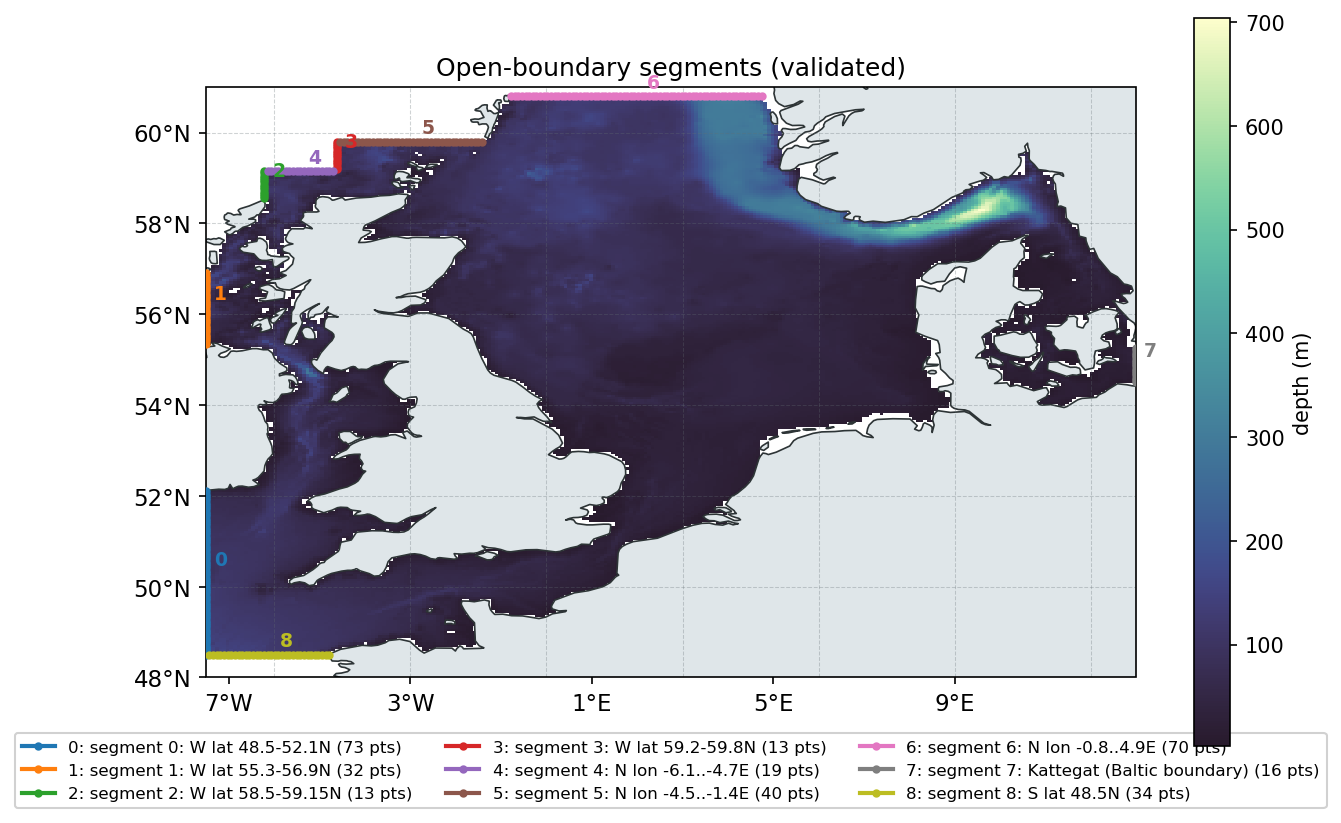
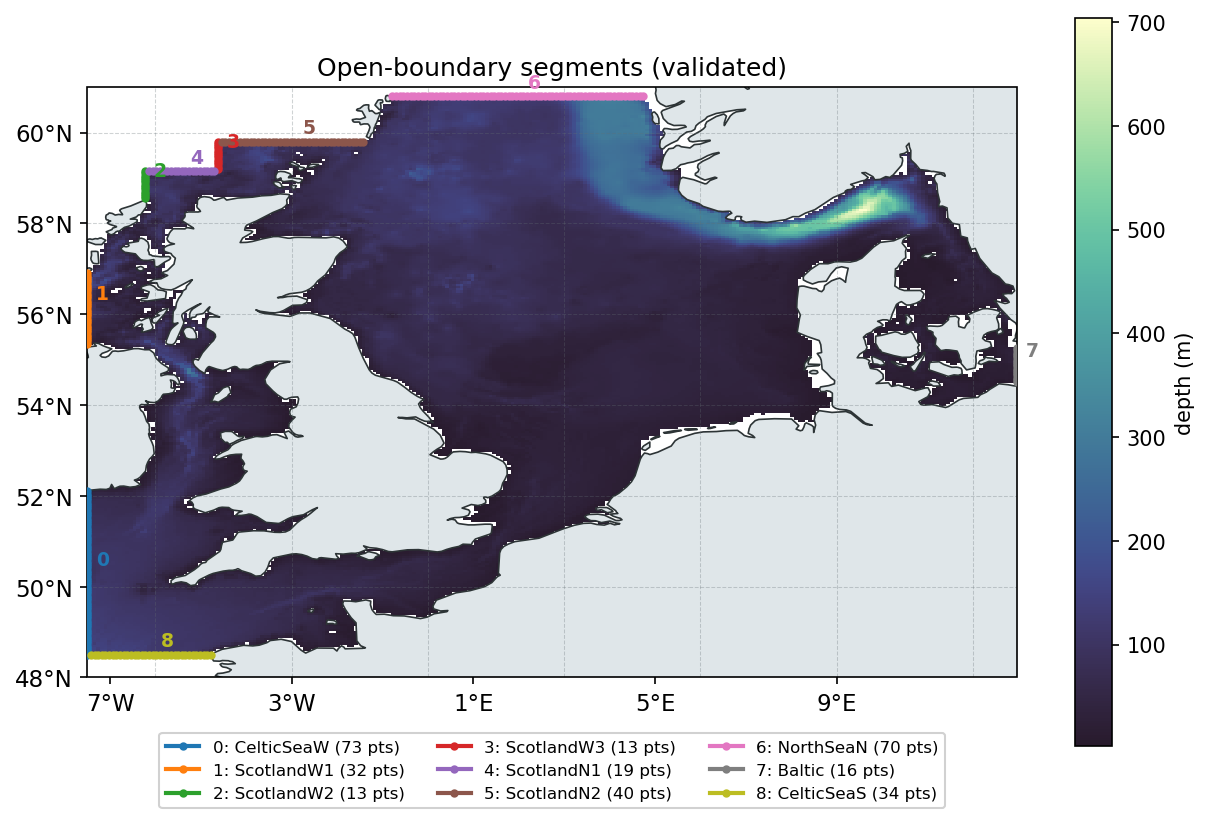
NSe: transfer scylla's hand-edited generated_nse_cmems.py into the configs
From scylla's generated_nse_cmems_final.py (2026-11-05):
- open-boundary segment names CelticSeaW, ScotlandW1-3, ScotlandN1-2,
  NorthSeaN, Baltic, CelticSeaS -- changed in nse_bdy_segments.yaml and
  applied to every tracked NSe run config with `pygetm-config
  boundaries-generate --apply-to` (indices unchanged; nse_bdy_lonlat.txt
  byte-identical; untracked local nse_cmems_tides/nse_cmip6_tides.yaml not
  touched).
- nse_cmems.yaml: vertical_coordinates GVC -> Adaptive (nse_cmip6.yaml
  already was; same Adaptive parameters).
- nse_cmems.yaml/nse_cmip6.yaml: open_boundary_sponge {tmrlx: true} --
  flow-dependent sponge for every SPONGE boundary (temp/salt and FABM).
- 36 FABM tracers (P1-4 Chl/c/n/p, P1_s, Z4-6, R4/6/8 c/n/p, R6_s, R8_s,
  L2_c) get constant background boundary values, the phyto-/zooplankton
  ones ZERO_GRADIENT at the Baltic boundary -- in the active FABM boundary
  source block (CMEMS resp. CMIP6).
- oceanicu_providers: FABM boundary tracers accept `constant:` (fixed
  value instead of file/variable) and `boundaries: {<name>: <type>}`
  (per-boundary type overrides, needs pygetm-config b05acab).

Kept from the configs, not from scylla's older base: zos_datum_corrected
boundary SSH, the current output lists incl. fish summaries (guarded by
FABM's own fish state variables / fishing_pressure dependency) and
ices_daily.nc.

Checked with a recording-stub run of create_domain/create_simulation/
[…]

diff --git a/driver/oceanicu_providers.py b/driver/oceanicu_providers.py
@@ -576,10 +576,25 @@ def register_oceanicu_providers() -> dict[str, ChoiceSpec]:
         type=TypeRef(
             kind="mapping",
             nullable=True,
-            inner=TypeRef(kind="mapping", inner=TypeRef(kind="scalar", scalar_type="str")),
+            # per-tracer keys: file/variable/boundary_condition_type (str),
+            # constant (number), boundaries (mapping boundary name -> type).
+            # Union order matters: number, then mapping, then str -- str
+            # validation would otherwise swallow the other two.
+            inner=TypeRef(
+                kind="mapping",
+                inner=TypeRef(
+                    kind="union",
+                    union_options=(
+                        TypeRef(kind="scalar", scalar_type="float"),
+                        TypeRef(kind="mapping", inner=TypeRef(kind="scalar", scalar_type="str")),
+                        TypeRef(kind="scalar", scalar_type="str"),
+                    ),
+                ),
+            ),
         ),
         default=None,
-        help="FABM state variable name -> {file, variable, boundary_condition_type} "
+        help="FABM state variable name -> {file, variable, boundary_condition_type, "
+        "constant, boundaries} "
         "for tracers that get a boundary + real values from this source. "
         "boundary_condition_type is optional, defaults to SPONGE (cfg_fabm.py's own "
         "real, only-ever-used value) -- other valid values are the same "
@@ -597,7 +612,12 @@ def register_oceanicu_providers() -> dict[str, ChoiceSpec]:
         "pygetm/tracer.py's own Tracer.__init__) and their fabm.yaml-declared "
         "initial_value for the interior IC -- not every FABM state variable needs "
         "an explicit boundary/IC override. `file` is resolved relative to this "
-        "choice's own `folder`.\n\n"
+        "choice's own `folder`. `constant: <value>` instead of file/variable "
+        "prescribes a fixed boundary value (e.g. a low background value for "
+        "plankton/detritus pools that have no boundary product). `boundaries: "
+        "{<open boundary name>: <type>}` overrides the type on individual named "
+        "open boundaries after the all-boundary type, e.g. {Baltic: "
+        "ZERO_GRADIENT}.\n\n"
         "ic_file/ic_variable (2026-10-01): OPTIONAL, CMEMS-only, free keys in "
         "this same per-tracer mapping (no separate ParameterSpec needed -- this "
         "field's own type is already a generic string mapping) -- a separate, "
@@ -1520,7 +1540,26 @@ def derive_data_assignments(config: dict) -> list[dict]:
                 entries.append(
                     {"target": f"open_boundary.{_tracer}", "kind": "boundary_type", "boundary_condition_type": _bc_type}
                 )
+                # Per-boundary type overrides (e.g. {Baltic: ZERO_GRADIENT}) --
+                # emitted after this tracer's all-boundary type and values, which
+                # would otherwise overwrite them.
+                _per_boundary = [
+                    {"target": f"open_boundary.{_tracer}", "kind": "boundary_type",
+                     "boundary_condition_type": _bdy_type, "boundary": _bdy_name}
+                    for _bdy_name, _bdy_type in (_spec.get("boundaries") or {}).items()
+                ]
+                if "constant" in _spec:
+                    # Fixed boundary value instead of a file -- e.g. a low
+                    # background value for plankton/detritus pools that have no
+                    # boundary product.
+                    entries.append(
+                        {"target": f"open_boundary.{_tracer}.values", "kind": "constant",
+                         "constant_value": float(_spec["constant"])}
+                    )
+                    entries.extend(_per_boundary)
+                    continue
                 if _bc_type == "ZERO_GRADIENT":
+                    entries.extend(_per_boundary)
                     # ZERO_GRADIENT computes the boundary value FROM the
                     # interior, unlike SPONGE/CLAMPED -- it never reads
                     # prescribed values at all, so `file`/`variable` are
@@ -1552,5 +1591,6 @@ def derive_data_assignments(config: dict) -> list[dict]:
                         **_fabm_grid_kwargs,
                     }
                 )
+                entries.extend(_per_boundary)
 
     return entries

diff --git a/NSe/Bathymetry/nse_boundaries.md b/NSe/Bathymetry/nse_boundaries.md
@@ -2,12 +2,12 @@
 
 | # | name | side | l | mstart | mstop | points | type_2d | type_3d |
 |---|---|---|---|---|---|---|---|---|
-| 0 | segment 0: W lat 48.5-52.1N | LEFT | 0 | 0 | 73 | 73 | FLATHER_ELEV | ZERO_GRADIENT |
-| 1 | segment 1: W lat 55.3-56.9N | LEFT | 0 | 137 | 169 | 32 | FLATHER_ELEV | ZERO_GRADIENT |
-| 2 | segment 2: W lat 58.5-59.15N | LEFT | 16 | 201 | 214 | 13 | FLATHER_ELEV | ZERO_GRADIENT |
-| 3 | segment 3: W lat 59.2-59.8N | LEFT | 36 | 214 | 227 | 13 | FLATHER_ELEV | ZERO_GRADIENT |
-| 4 | segment 4: N lon -6.1..-4.7E | TOP | 213 | 17 | 36 | 19 | FLATHER_ELEV | ZERO_GRADIENT |
-| 5 | segment 5: N lon -4.5..-1.4E | TOP | 226 | 37 | 77 | 40 | FLATHER_ELEV | ZERO_GRADIENT |
-| 6 | segment 6: N lon -0.8..4.9E | TOP | 246 | 84 | 154 | 70 | FLATHER_ELEV | ZERO_GRADIENT |
-| 7 | segment 7: Kattegat (Baltic boundary) | RIGHT | 256 | 120 | 136 | 16 | FLATHER_ELEV | ZERO_GRADIENT |
-| 8 | segment 8: S lat 48.5N | BOTTOM | 0 | 1 | 35 | 34 | FLATHER_ELEV | ZERO_GRADIENT |
+| 0 | CelticSeaW | LEFT | 0 | 0 | 73 | 73 | FLATHER_ELEV | ZERO_GRADIENT |
+| 1 | ScotlandW1 | LEFT | 0 | 137 | 169 | 32 | FLATHER_ELEV | ZERO_GRADIENT |
+| 2 | ScotlandW2 | LEFT | 16 | 201 | 214 | 13 | FLATHER_ELEV | ZERO_GRADIENT |
+| 3 | ScotlandW3 | LEFT | 36 | 214 | 227 | 13 | FLATHER_ELEV | ZERO_GRADIENT |
+| 4 | ScotlandN1 | TOP | 213 | 17 | 36 | 19 | FLATHER_ELEV | ZERO_GRADIENT |
+| 5 | ScotlandN2 | TOP | 226 | 37 | 77 | 40 | FLATHER_ELEV | ZERO_GRADIENT |
+| 6 | NorthSeaN | TOP | 246 | 84 | 154 | 70 | FLATHER_ELEV | ZERO_GRADIENT |
+| 7 | Baltic | RIGHT | 256 | 120 | 136 | 16 | FLATHER_ELEV | ZERO_GRADIENT |
+| 8 | CelticSeaS | BOTTOM | 0 | 1 | 35 | 34 | FLATHER_ELEV | ZERO_GRADIENT |
